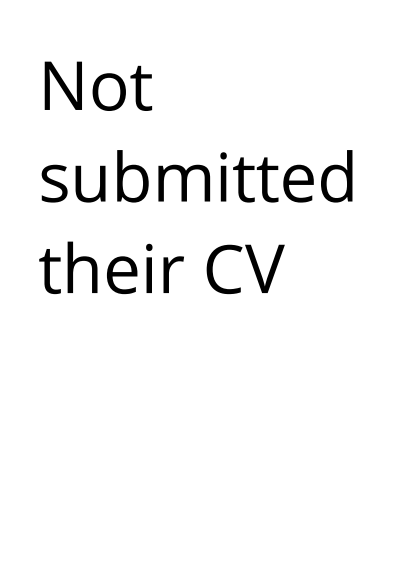
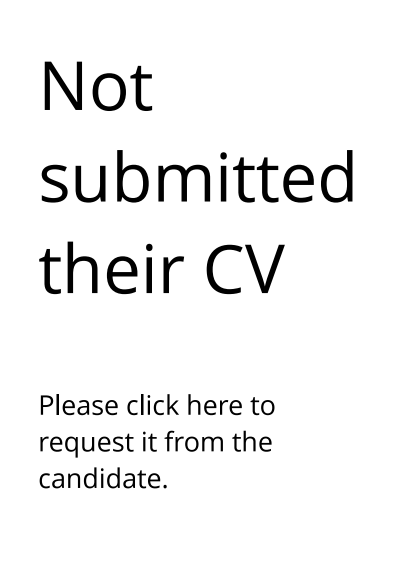
Make workflow to click on bad CV to help fix it
Closes #62

Changed region(s): [[0.09, 0.6908, 0.69, 0.871]]

diff --git a/templates/upload_cv.html b/templates/upload_cv.html
@@ -7,15 +7,18 @@
 
         <p class="lead">{{ candidate.name }} and others haven't yet submitted their CV.</p>
         
-        <p class="askblock">
-            <a href="/email_candidates/{{ candidate.constituency_id }}" class="contact-ask btn btn-lg btn-success">Email candidates without CVs</a>
-            {% if candidate.twitter %}
-            &nbsp;
-            <a href="/tweet_candidates/{{ candidate.constituency_id }}" class="contact-ask btn btn-lg btn-info">Tweet them</a>
-            {% endif %}
-            &nbsp;
+        <p>
+            <a href="/email_candidates/{{ candidate.constituency_id }}" class="btn btn-lg btn-success">Email my candidates to request their CVs</a>
         </p>
 
+        {% if candidate.twitter %}
+        <p>
+        <a href="/tweet_candidates/{{ candidate.constituency_id }}" class="btn btn-lg btn-info"> Tweet my candidates to request their CVs</a>
+        {% endif %}
+        &nbsp;
+        </p>
+
+        <p>
         {% if candidate.email %}
         <form action="/upload_cv/{{ candidate.id }}" method="POST">
             <div class="form-group">
@@ -25,7 +28,7 @@
         {% else %}
             <a href="https://yournextmp.com/person/{{candidate.id}}" class="btn btn-default btn-lg">Find {{ candidate.name }}'s email address</a>
         {% endif %}
-
+        </p>
 
         <h1 class="what_this">What's this about?</h1>
 

diff --git a/templates/candidates.html b/templates/candidates.html
@@ -35,23 +35,6 @@
              {% endfor %}
         </div>
 
-        {% if candidates_no_cv or candidates_no_email %}
-            <h1>Good news! You can help get more CVs!</h1>
-            <p class="askblock">
-                {% if candidates_no_cv %}
-                    <a href="/email_candidates/{{ constituency.id }}" class="contact-ask btn btn-lg btn-success">Email candidates without CVs</a>
-                    {% if show_twitter_button %}
-                    &nbsp;
-                    <a href="/tweet_candidates/{{ constituency.id }}" class="contact-ask btn btn-lg btn-info">Tweet them</a>
-                    {% endif %}
-                    &nbsp;
-                {% endif %}
-                {% if candidates_no_email %}
-                        <a href="https://yournextmp.com/constituency/{{ constituency.id }}/" class="contact-ask btn btn-lg btn-default" target="_blank">Find missing emails</a>
-                {% endif %}
-            </p>
-        {% endif %}
-
 <!--        {% if not email_got and postcode %}
             {{ subscribe.subscribe(show_dismiss=False, from_email=from_email, postcode=postcode) }}
             {% endif %} -->

diff --git a/static/style.css b/static/style.css
@@ -138,14 +138,6 @@ footer ul.pull-right li:last-child {
     white-space: nowrap;
 }
 
-.contact-ask {
-    margin-top: 6px;
-}
-
-.askblock {
-    margin-top: 24px;
-}
-
 /* /upload_cv */
 
 /* Make file upload button look good */
